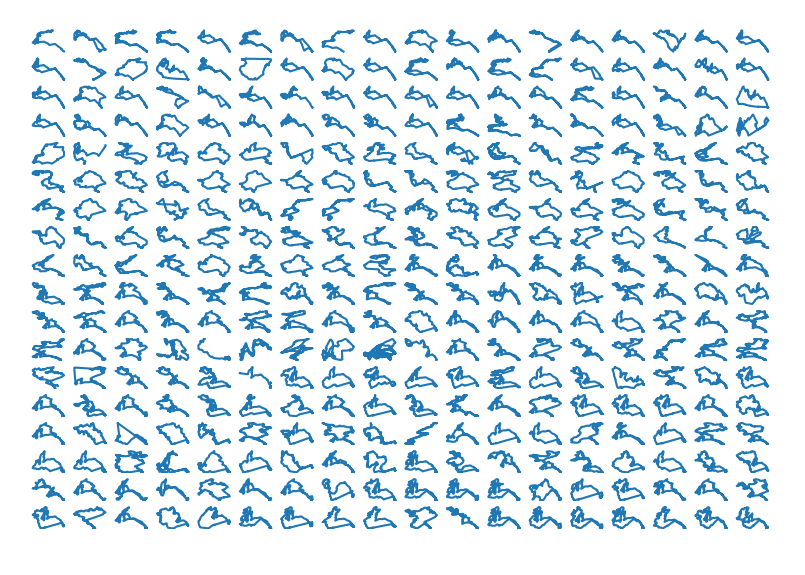
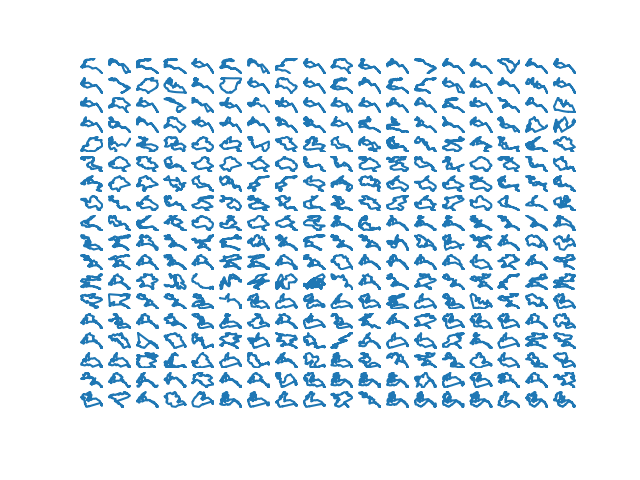
update readme

diff --git a/README.md b/README.md
@@ -6,7 +6,7 @@ Track shapes:
 ![facets](https://github.com/narfel/small_multiples/blob/master/plots/plot.png "Gpx track outlines")
 
 Elevation:
-![facets](https://github.com/narfel/small_multiples/blob/master/plots/plot_ele.png "Elevation graohs")
+![elevation](https://github.com/narfel/small_multiples/blob/master/plots/plot_ele.png "Elevation graphs")
 
 ## Usage
 ***Usage***: small_multiples.py [path]
